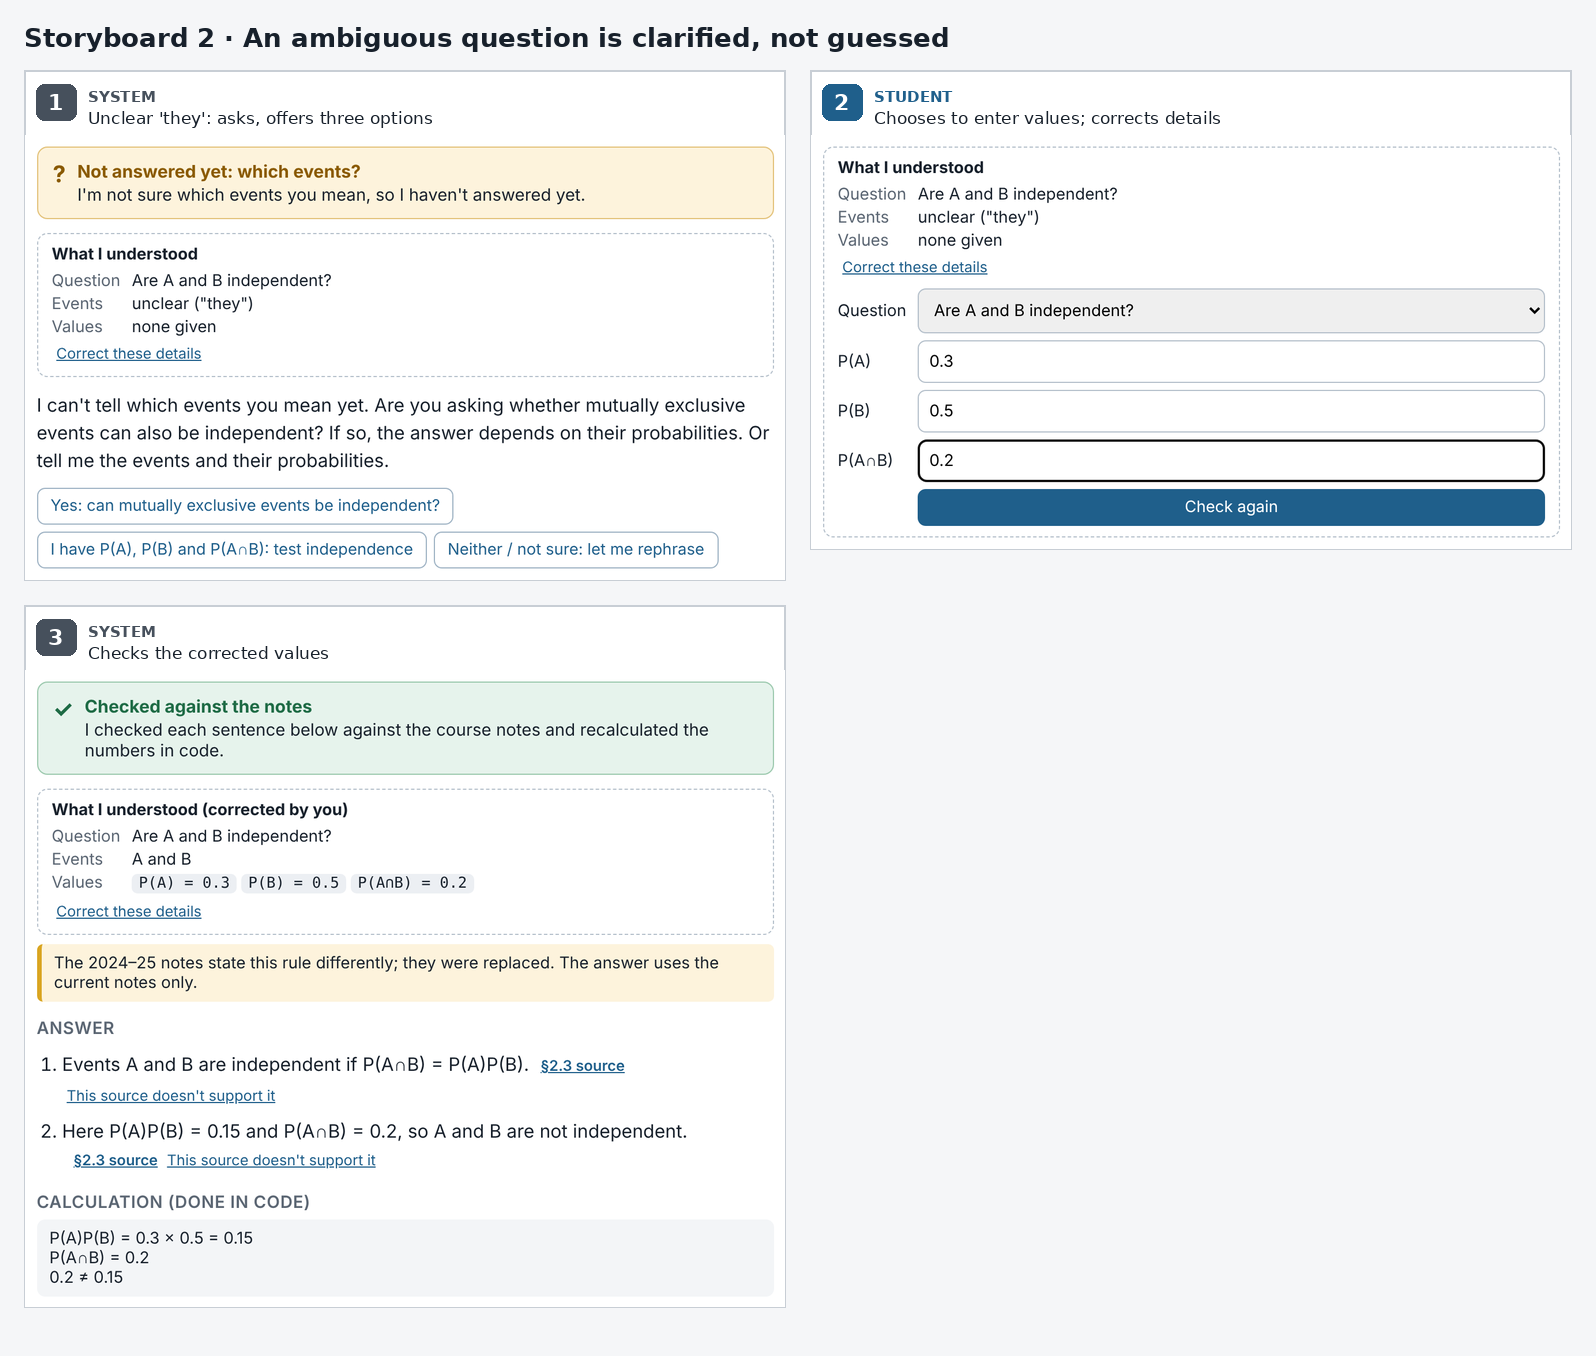
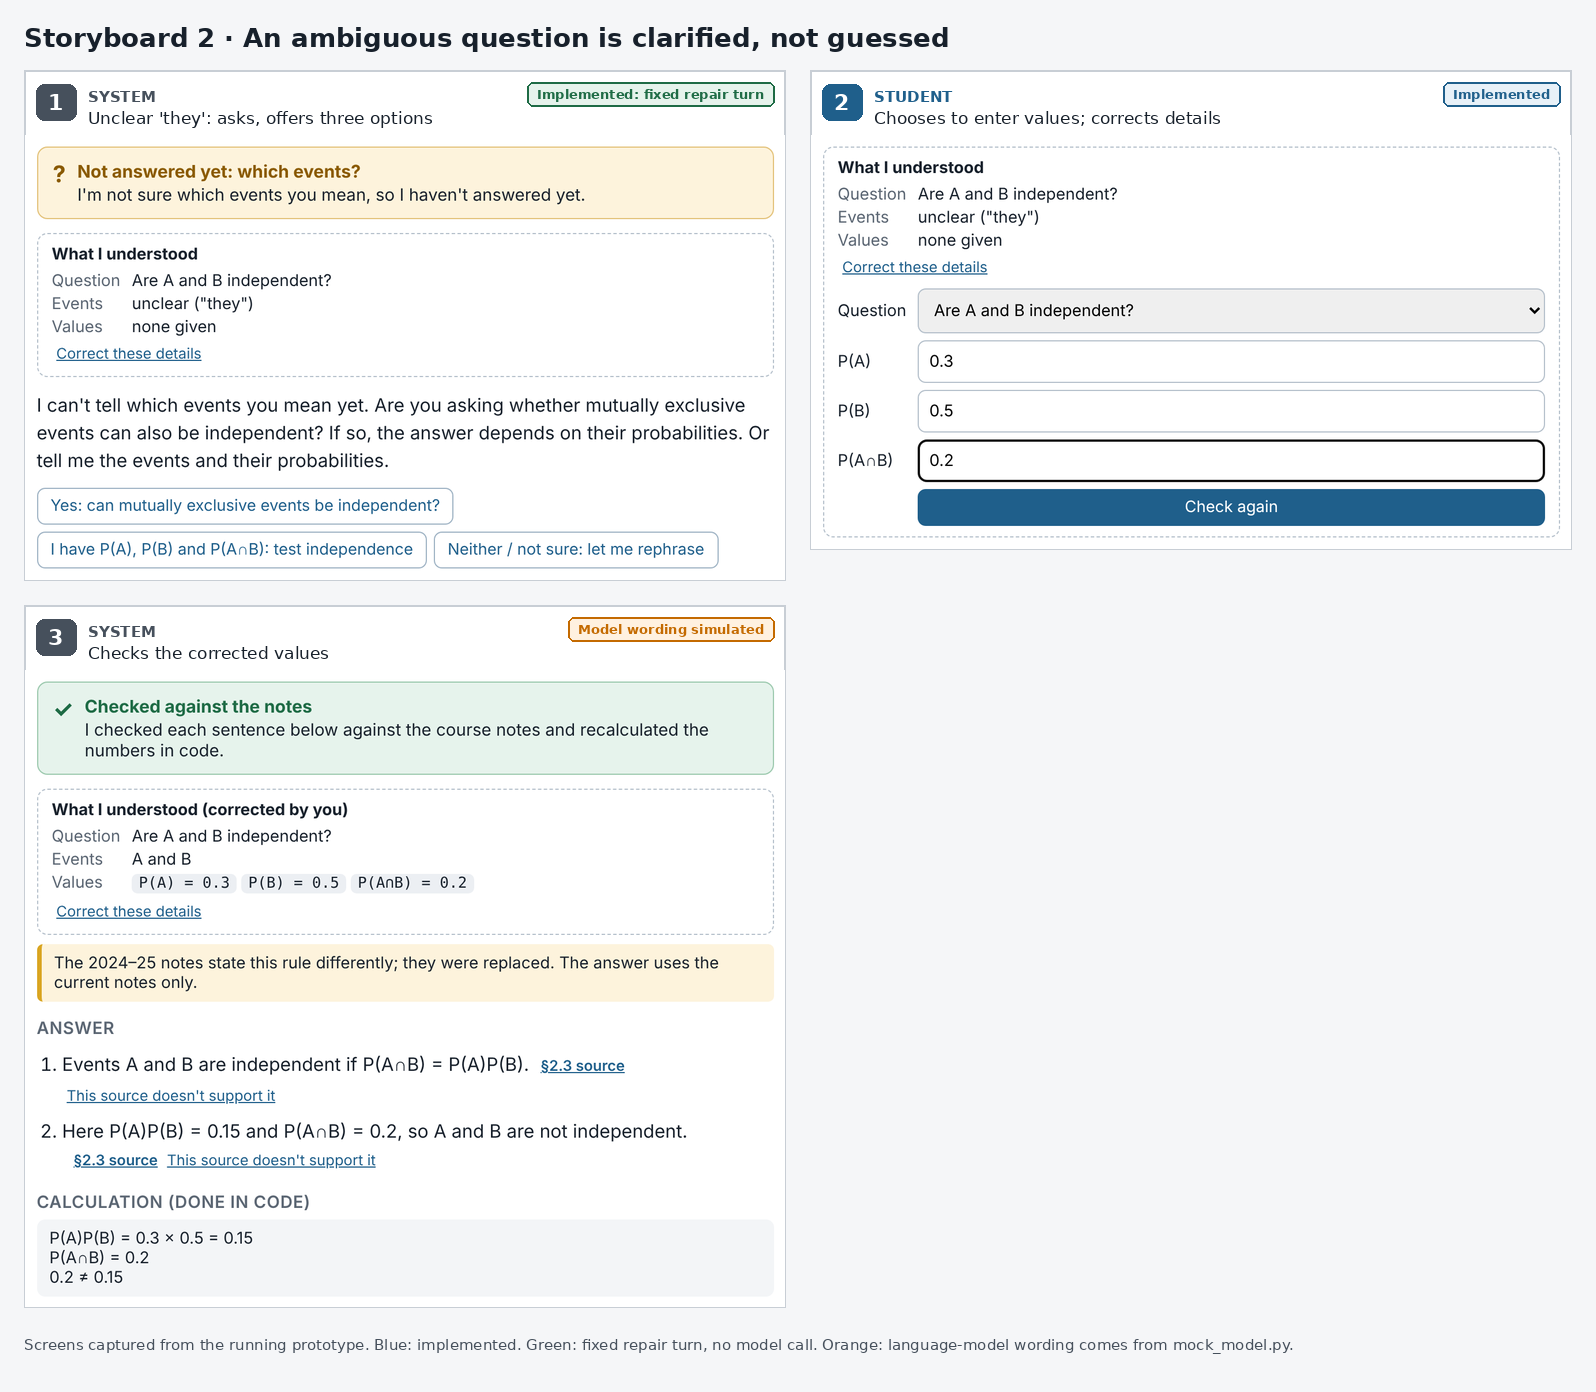
Label storyboard frames by status; plan a replay evaluation
After reviewing the A1 feedback, the report is being rebuilt around the A1 question
(optional, low-effort access to evidence and appropriate reliance).

- storyboards.py: each frame carries a status chip (implemented, fixed repair turn,
  model wording simulated, simulated overclaim) and a legend line.
- diagram.py: the planned user study became a replay evaluation with seeded wrong
  answers and no participants.
- README: who made which commits, the 16 November revision, and TODO slots for the
  student's own checks.

Checked: 25 tests pass; regenerated figures inspected.

Claude-Session: https://claude.ai/code/session_012JpTGVvj5dx5qnLAXuLx38

diff --git a/scripts/storyboards.py b/scripts/storyboards.py
@@ -6,11 +6,18 @@ F = os.path.join(HERE, "docs", "frames"); OUT = os.path.join(HERE, "docs", "stor
 os.makedirs(OUT, exist_ok=True)
 font = lambda s, b=False: ImageFont.truetype("/usr/share/fonts/truetype/dejavu/DejaVuSans%s.ttf" % ("-Bold" if b else ""), s)
 COL = {"Student": (31, 95, 139), "System": (70, 80, 92)}
+# Development status of what each frame shows (same colours as the system diagram).
+STATUS = {"impl": ("Implemented", (232, 241, 248), (31, 95, 139)),
+          "gate": ("Implemented: fixed repair turn", (230, 243, 236), (30, 107, 69)),
+          "sim": ("Model wording simulated", (255, 241, 224), (196, 106, 0)),
+          "demo": ("Simulated overclaim (demo switch)", (255, 241, 224), (196, 106, 0))}
+FOOT = ("Screens captured from the running prototype. Blue: implemented. Green: fixed repair turn, no model call. "
+        "Orange: language-model wording comes from mock_model.py.")
 W = 760  # frame width in the board
 
 def board(name, title, frames, cols=2):
     tiles = []
-    for i, (actor, caption, file) in enumerate(frames, 1):
+    for i, (actor, caption, file, status) in enumerate(frames, 1):
         im = Image.open(os.path.join(F, file)).convert("RGB")
         im = im.resize((W, int(im.height * W / im.width)), Image.LANCZOS)
         head = 64
@@ -20,11 +27,16 @@ def board(name, title, frames, cols=2):
         d.rounded_rectangle([12, 14, 52, 50], 8, fill=COL[actor]); d.text((32, 32), str(i), font=font(22, True), fill="white", anchor="mm")
         d.text((64, 18), actor.upper(), font=font(15, True), fill=COL[actor])
         d.text((64, 38), caption, font=font(17), fill=(23, 32, 43))
+        label, bg, fg = STATUS[status]
+        tw = d.textlength(label, font=font(13, True))
+        d.rounded_rectangle([W - tw - 30, 12, W - 10, 36], 6, fill=bg, outline=fg, width=2)
+        d.text((W - tw - 20, 24), label, font=font(13, True), fill=fg, anchor="lm")
         t.paste(im, (1, head + 1)); tiles.append(t)
     gap = 24; rows = [tiles[i:i + cols] for i in range(0, len(tiles), cols)]
     width = cols * (W + 2) + (cols + 1) * gap; top = 70
     heights = [max(t.height for t in r) for r in rows]
-    B = Image.new("RGB", (width, top + sum(heights) + gap * (len(rows) + 1)), (245, 246, 248))
+    foot = 36
+    B = Image.new("RGB", (width, top + sum(heights) + gap * (len(rows) + 1) + foot), (245, 246, 248))
     d = ImageDraw.Draw(B); d.text((gap, 22), title, font=font(26, True), fill=(23, 32, 43))
     y = top
     for r, h in zip(rows, heights):
@@ -32,20 +44,21 @@ def board(name, title, frames, cols=2):
         for t in r:
             B.paste(t, (x, y)); x += W + 2 + gap
         y += h + gap
+    d.text((gap, y + 4), FOOT, font=font(15), fill=(70, 80, 92))
     B.save(os.path.join(OUT, name)); print(name, B.size)
 
 board("storyboard1_checked_answer.png", "Storyboard 1 · A checked answer the student can verify", [
-    ("Student", "Asks with values; scope shown first", "f1_1_ask.png"),
-    ("System", "Cue, interpretation, cited sentences, calculation", "f1_2_answer.png"),
-    ("Student", "Clicks '§2.3 source' on sentence 3", "f1_3_source.png"),
-    ("System", "Passage highlighted: words that matched", "f1_3b_passage.png"),
-    ("System", "Proposes revision slot; arguments shown", "f1_4_confirm.png"),
-    ("Student", "Confirms; result read from the tool", "f1_5_done.png")])
+    ("Student", "Asks with values; scope shown first", "f1_1_ask.png", "impl"),
+    ("System", "Cue, interpretation, cited sentences, calculation", "f1_2_answer.png", "sim"),
+    ("Student", "Clicks '§2.3 source' on sentence 3", "f1_3_source.png", "impl"),
+    ("System", "Passage highlighted: words that matched", "f1_3b_passage.png", "impl"),
+    ("System", "Proposes revision slot; arguments shown", "f1_4_confirm.png", "impl"),
+    ("Student", "Confirms; result read from the tool", "f1_5_done.png", "impl")])
 board("storyboard2_clarify_correct.png", "Storyboard 2 · An ambiguous question is clarified, not guessed", [
-    ("System", "Unclear 'they': asks, offers three options", "f2_1_clarify.png"),
-    ("Student", "Chooses to enter values; corrects details", "f2_2_correct.png"),
-    ("System", "Checks the corrected values", "f2_3_checked.png")])
+    ("System", "Unclear 'they': asks, offers three options", "f2_1_clarify.png", "gate"),
+    ("Student", "Chooses to enter values; corrects details", "f2_2_correct.png", "impl"),
+    ("System", "Checks the corrected values", "f2_3_checked.png", "sim")])
 board("storyboard3_failure_recovery.png", "Storyboard 3 · Unsupported claims are caught and reported", [
-    ("System", "Demo overclaim: two sentences removed", "f3_1_removed.png"),
-    ("Student", "Reports sentence 3; system rechecks", "f3_2_report.png"),
-    ("System", "Outside the notes: declines, hands over", "f3_3_decline.png")])
+    ("System", "Demo overclaim: two sentences removed", "f3_1_removed.png", "demo"),
+    ("Student", "Reports sentence 3; system rechecks", "f3_2_report.png", "impl"),
+    ("System", "Outside the notes: declines, hands over", "f3_3_decline.png", "gate")])

diff --git a/scripts/diagram.py b/scripts/diagram.py
@@ -65,7 +65,7 @@ box(760, 650, 160, 80, ["retrieve.py", "lexical score +", "superseded rerank"])
 box(960, 645, 260, 92, ["Sample probability notes", "5 files · 11 passages", "source · section · date", "(written for this project)"], kind="file")
 # planned band
 box(190, 800, 300, 62, ["Planned: model-based", "question interpretation (+ same correction)"], kind="plan")
-box(760, 800, 460, 62, ["Planned: real course notes with embedding retrieval;", "user study of error detection and reliance"], kind="plan")
+box(760, 800, 460, 62, ["Planned: real course notes with embedding retrieval;", "replay evaluation with seeded wrong answers (no participants)"], kind="plan")
 box(1510, 800, 180, 62, ["Planned: tutor review", "of feedback_log reports"], kind="plan")
 
 # arrows

diff --git a/README.md b/README.md
@@ -1,14 +1,14 @@
 # ProbCheck: an evidence-checking study assistant for probability
 
 Intelligent Interactive Systems · A2 project · student 3098204
-README prose: about 1,050 words (code blocks and commands not counted).
+README prose: about 1,260 words (code blocks and commands not counted).
 
 ProbCheck helps a first-year student decide whether to trust an explanation of a probability
 question. Each sentence of the answer links to the course-note passage it relies on. Numbers are
 recalculated in code. A verbal cue says how far the answer was checked. When the question is
 ambiguous, the system asks instead of guessing.
 
-**Submitted version:** tag `v1.0-a2` (see the report's first page for the commit hash).
+**Submitted version:** tag `v1.1-a2` (commit hash on the report's first page). The 9 November baseline is tag `v1.0-a2`.
 
 ## Project status
 
@@ -23,7 +23,7 @@ ambiguous, the system asks instead of guessing.
 | Revision-slot tool with validation, confirmation and log (`tools.py`) | Implemented (carried over from Lab 4, now with a topic) |
 | Language model that words the checked facts | **Simulated** (`mock_model.py`); a live OpenAI-compatible route is wired in `model.py` but **not evaluated** |
 | Course notes | **Sample notes written for this project**, not real module material |
-| Model-based question interpretation, real course notes with embeddings, tutor review of reports, user study | **Planned** |
+| Model-based question interpretation, real course notes with embeddings, tutor review of reports, replay evaluation with seeded wrong answers (no participants) | **Planned** |
 
 Known limits: the parser only recognises the notation in the examples (P(A), P(B), P(A∩B), P(A|B),
 P(A∪B)); the app keeps one conversation in memory, so it is single-user; the word-overlap check in
@@ -81,6 +81,11 @@ changes: show the interpretation, and gate the answer on missing information.
 Retrieval, provenance display and a confirmed tool were integrated. The test record found that
 a superseded handbook passage ranked first.
 
+**Who made these commits.** Commits `ddb6aee` to `4cf7da9` were generated by Claude in one session on
+9 November 2026, which is why they fall within 14 minutes. I accepted its recommendations on scope (four
+probability topics) and on simulating the language model. Later commits made with Claude end with a
+`Co-Authored-By: Claude` line; commits without that line are my own.
+
 **A2 changes (this repository):**
 
 - [`ddb6aee`](../../commit/ddb6aee), [`6a8380d`](../../commit/6a8380d): imported the Lab 4 app and lab
@@ -103,6 +108,14 @@ a superseded handbook passage ranked first.
   Report wording was corrected after the screenshot showed it calling the student's values
   "calculation".
 
+- 16 November, A1 revision (with Claude): after reviewing my A1 feedback, I decided to rebuild the
+  report around the A1 question (when does optional, low-effort access to evidence help people rely
+  appropriately on AI advice?). Claude proposed two changes, which this commit makes: each storyboard
+  frame is now labelled implemented, fixed repair turn or simulated; and the planned user study in the
+  system diagram became a replay evaluation without participants, as the module's examples use.
+- **My own changes and checks:** TODO (student): after running the app, list what you tried, what you
+  saw, and anything you changed, with the commit link.
+
 All 25 tests pass on the tagged version (`python -m unittest discover -s tests`).
 
 ## AI assistance
@@ -113,11 +126,14 @@ All 25 tests pass on the tagged version (`python -m unittest discover -s tests`)
 - **A2:** Claude (Anthropic, Claude Opus 5.5, used through claude.ai) was asked to extend the Lab 4 app
   into the Labs 1–3 design, write the tests, capture screenshots, draw the diagram, and draft this
   README and the report. It was given the Lab 1–4 files, the A2 brief and the Week 1–5 slides.
-- **How the output was checked:** the test suite and the self-tests were run, and every screenshot
-  was inspected (this is how the hidden-form, ∩-glyph and wording bugs were found). The arithmetic
-  in each example was recomputed by hand, and the references were checked against the Lab 1 shortlist.
-- **TODO (student, before submitting):** add one or two examples of what you checked or changed
-  yourself, for example running the app, editing wording, or rejecting a suggestion.
+- **A2 revision (16 November):** Claude was given my A1 report and its feedback, the A2 brief and
+  rubric, the Week 1–4 lecture slides and this repository. It proposed the replay evaluation and the
+  storyboard status labels, and drafted the revised report and this record.
+- **What Claude checked:** it ran the test suite and self-tests and inspected every screenshot (this is
+  how the hidden-form, ∩-glyph and wording bugs were found). It recomputed the example arithmetic and
+  checked the references against the Lab 1 shortlist and the A1 sources.
+- **What I checked or changed:** TODO (student): one or two real examples, such as running the app with
+  your own questions, editing wording, or rejecting a suggestion.
 
 ## Additional files
 
